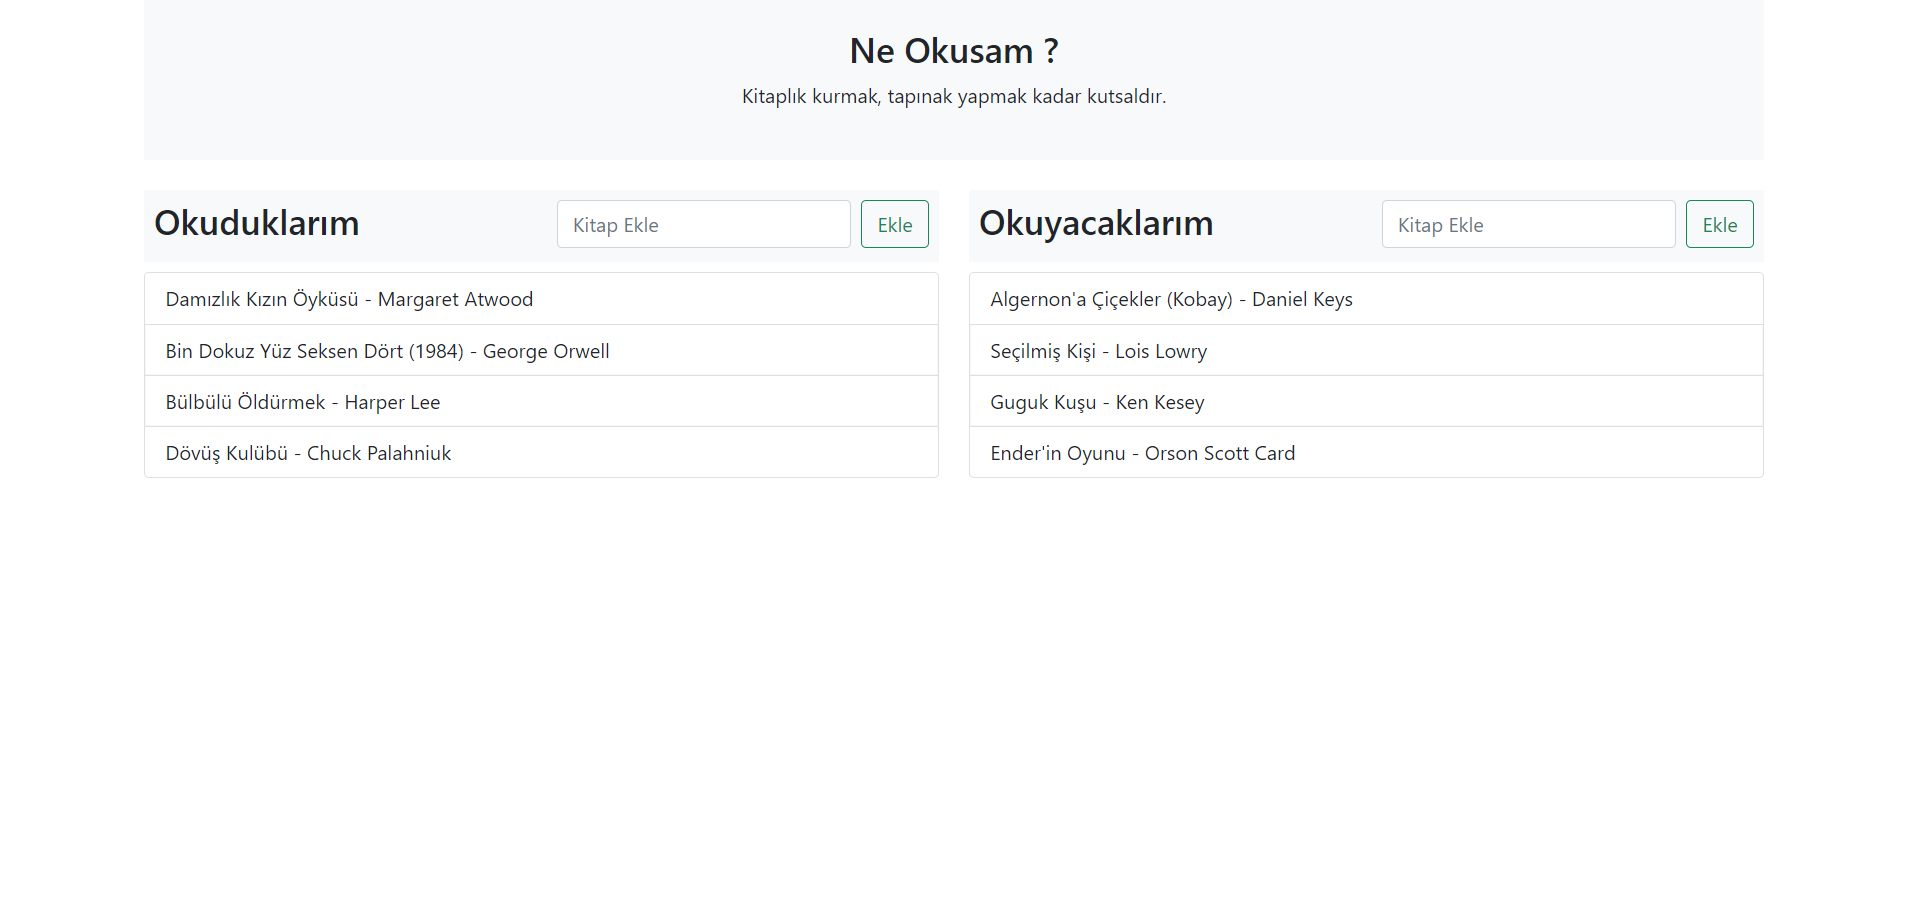
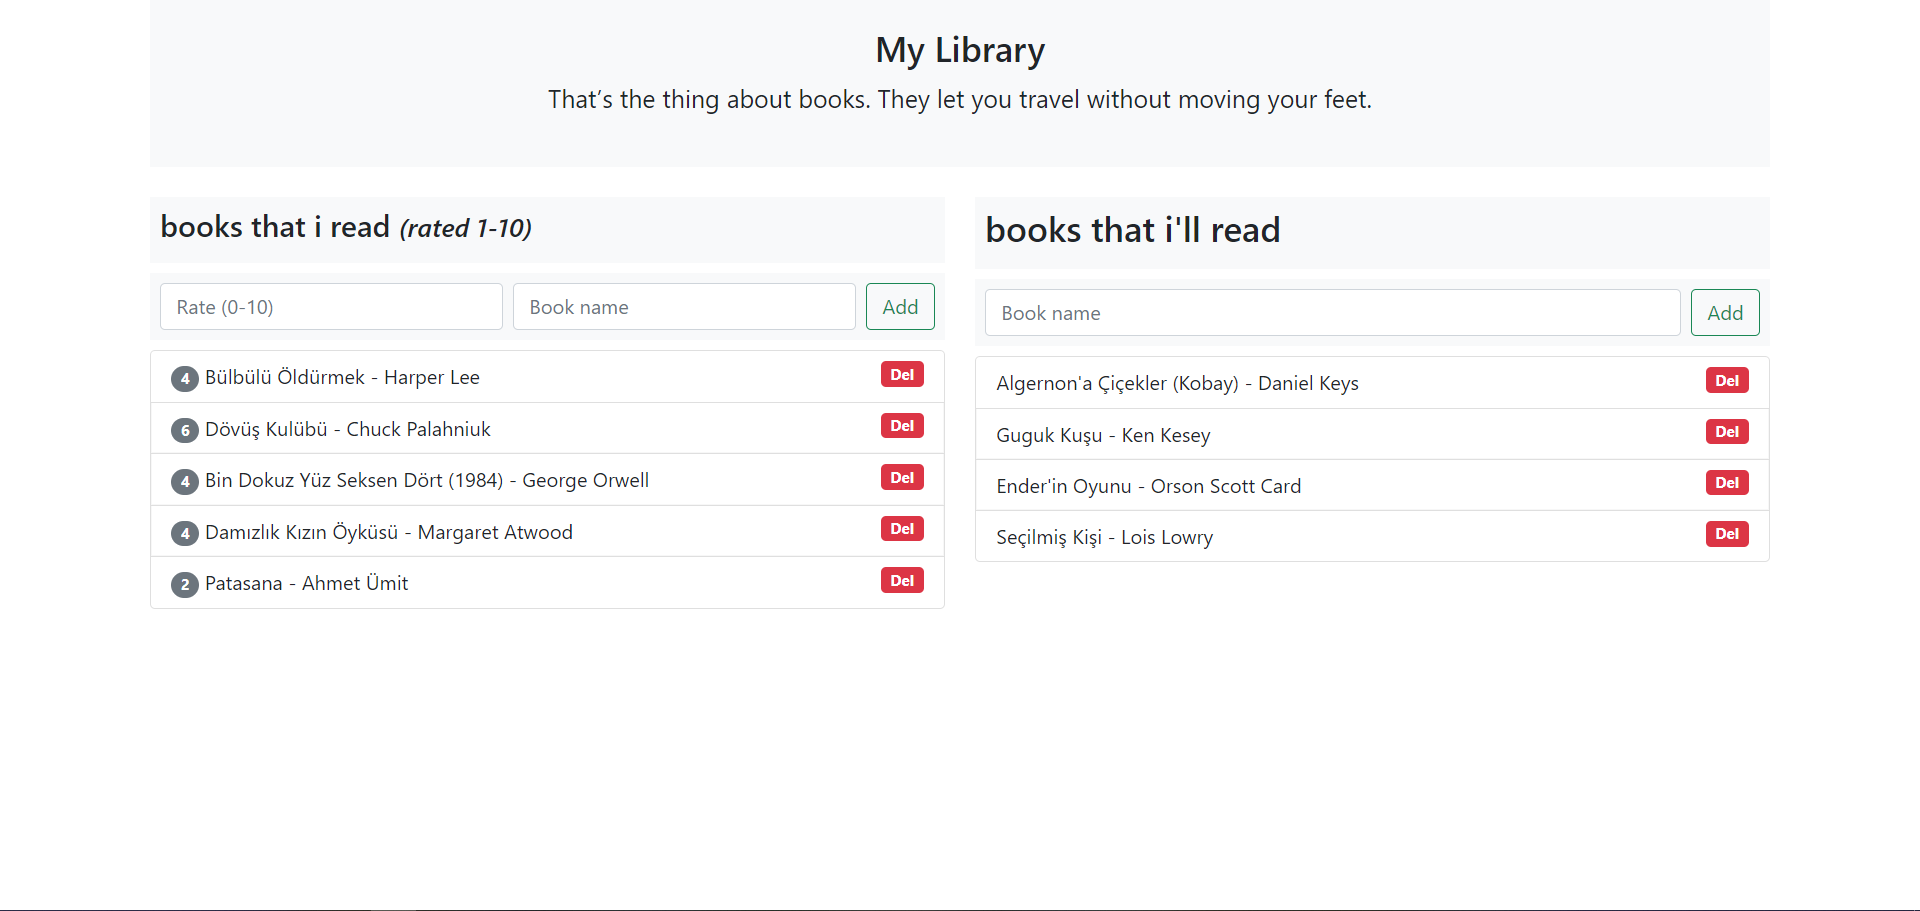
Update files.

diff --git a/app.js b/app.js
@@ -1,49 +1,91 @@
 "use strict"
 
 
+//getting data from localStorage and adding keys to sorted array , with sorted keys array we can have sorted objects
+let unreadKeys = [], readKeys = [];
+let readBooksArray = {}, unReadBooksArray = {};
+for (let i = 0; i < localStorage.length; i++) {
+  let key = localStorage.key(i);
+  if (key.includes('r')) {
+    readKeys.push(key);
+  } else {
+    unreadKeys.push(key);
+  }
+}
+readKeys.sort();
+unreadKeys.sort();
+for (let i = 0; i < readKeys.length; i++) {
+  readBooksArray[readKeys[i]] = localStorage.getItem(readKeys[i]);
+}
+for (let i = 0; i < unreadKeys.length; i++) {
+  unReadBooksArray[unreadKeys[i]] = localStorage.getItem(unreadKeys[i]);
+}
+
+
+//delete function
+function reply_click(clicked_id) {
+  confirm(`Are you sure ?`) ? localStorage.removeItem(clicked_id) : "";
+  document.location.reload();
+}
 
 
 //read books form submit function
-//okunan kitaplar için form submit kontrolü
-const addReadBook = document.querySelector("#addReadBook");
-addReadBook.addEventListener('submit', onSubmit1);
+const readBookForm = document.querySelector("#readBookForm");
+readBookForm.addEventListener('submit', onSubmit1);
 function onSubmit1(e) {
   e.preventDefault();
   const bookName = document.querySelector("#readBookName");
+  const bookRate = document.querySelector("#readBookRate");
   let msg = document.querySelector("#msgReadBook");
-  if (bookName.value === "") {
+  if (bookName.value === "" || bookRate.value === "") {
     msg.classList.add("alert");
     msg.classList.add("alert-danger");
-    msg.textContent = "Lütfen bir kitap ismi giriniz.";
+    msg.textContent = "Please fill the blanks.";
     setTimeout(() => msg.classList.remove("alert"), 3000);
     setTimeout(() => msg.classList.remove("alert-danger"), 3000);
     setTimeout(() => msg.textContent = "", 3000);
   } else {
-    addReadListItem(bookName.value);
+    addReadListItem(bookName.value,bookRate.value);
     bookName.value = '';
   }
 }
 
 //read books local storage add function 
-//okunan kitaplar localstorage eleman ekleme fonksiyonu
-function addReadListItem(bookName) {
-  let counter = 0;
-  for (let i = 0; i < localStorage.length; i++) {
-    if (localStorage.key(i).includes("r")) {
-      counter++;
-    }
+function addReadListItem(bookName,bookRate) {
+  if (readKeys.length === 0) {
+    localStorage.setItem(`r0-${bookRate}`, bookName);
+  } else {
+    let str = readKeys[readKeys.length - 1];
+    let strArray = str.split("-");
+    var matches = strArray[0].match(/(\d+)/);
+    localStorage.setItem(`r${Number(matches[0])+1}-${bookRate}`, bookName);
   }
-  localStorage.setItem(`r${counter}`, bookName);
+
   document.location.reload()
 }
 
+//read books html listing
+for (const key in readBooksArray) {
+  let ul = document.querySelector("#readBookList");
+  let li = document.createElement("li");
+  li.appendChild(document.createTextNode(readBooksArray[key]));
+  li.classList.add("list-group-item");
+  ul.appendChild(li);
+}
 
-
+//adding delete button and book rate to readbooks list html items 
+let lilist = document.getElementById("readBookList").getElementsByTagName("li");
+for (let i = 0; i < readKeys.length; i++) {
+  let litem = lilist[i].innerHTML;
+  let rate = readKeys[i].split("-");
+  lilist[i].innerHTML = `<span class="badge bg-secondary rounded-pill">${rate[1]}</span> ` + litem + `<button id="${readKeys[i]}" onClick="reply_click(this.id)" class="badge float-end bg-danger border-0"> Del </button>`;
+}
 /* -------------------------------------------------------- */
+
+
 //unread books form submit function
-//okunacak kitaplar için form submit kontrolü
-const addUnReadBook = document.querySelector('#addUnReadBook');
-addUnReadBook.addEventListener('submit', onSubmit2);
+const unReadBookForm = document.querySelector('#unReadBookForm');
+unReadBookForm.addEventListener('submit', onSubmit2);
 function onSubmit2(e) {
   e.preventDefault();
   const bookName = document.querySelector("#unReadBookName");
@@ -53,7 +95,7 @@ function onSubmit2(e) {
   if (bookName.value === "") {
     msg.classList.add("alert");
     msg.classList.add("alert-danger");
-    msg.textContent = "Lütfen bir kitap ismi giriniz.";
+    msg.textContent = "Please enter a book name.";
     setTimeout(() => msg.classList.remove("alert"), 3000);
     setTimeout(() => msg.classList.remove("alert-danger"), 3000);
     setTimeout(() => msg.textContent = "", 3000);
@@ -64,38 +106,44 @@ function onSubmit2(e) {
 }
 
 //unread books localStorage add function
-//okunacak kitaplar localStorage eleman ekleme fonksiyonu
+
 function addUnReadListItem(bookName) {
-  let counter = 0;
-  for (let i = 0; i < localStorage.length; i++) {
-    if (localStorage.key(i).includes("u")) {
-      counter++;
-    }
+  if (unreadKeys.length === 0) {
+    localStorage.setItem(`u0`, bookName);
+  } else {
+    let str = unreadKeys[unreadKeys.length - 1];
+    var matches = str.match(/(\d+)/);
+    localStorage.setItem(`u${Number(matches[0])+1}`, bookName);
   }
-  localStorage.setItem(`u${counter}`, bookName);
+
   document.location.reload()
 }
 
 
-//read and unread books html listing
-//okunacak kitaplar html listelemesi
-for (let i = 0; i < localStorage.length; i++) {
-  for(let j = 0 ; j<localStorage.length; j++){ 
-    if (localStorage.key(j)==`r${i}`) {
-      let bookName = localStorage.getItem(`r${i}`);
-      let ul = document.querySelector("#readBookList");
-      let li = document.createElement("li");
-      li.appendChild(document.createTextNode(bookName));
-      li.classList.add("list-group-item");
-      ul.appendChild(li);
-    } else if (localStorage.key(j)==`u${i}`) {
-      let bookName = localStorage.getItem(`u${i}`);
-      let ul = document.querySelector("#unReadBookList");
-      let li = document.createElement("li");
-      li.appendChild(document.createTextNode(bookName));
-      li.classList.add("list-group-item");
-      ul.appendChild(li);
-    }
-  }
-  
+
+//unread books html listing
+for (const key in unReadBooksArray) {
+  let ul = document.querySelector("#unReadBookList");
+  let li = document.createElement("li");
+  li.appendChild(document.createTextNode(unReadBooksArray[key]));
+  li.classList.add("list-group-item");
+  ul.appendChild(li);
 }
+
+
+
+
+//adding delete button to unreadbooks list items 
+let lilist2 = document.getElementById("unReadBookList").getElementsByTagName("li");
+for (let i = 0; i < unreadKeys.length; i++) {
+  let litem = lilist2[i].innerHTML;
+  lilist2[i].innerHTML = litem + `<button id="${unreadKeys[i]}" onClick="reply_click(this.id)" class="badge float-end bg-danger border-0"> Del </button>`;
+}
+
+
+
+
+
+
+
+

diff --git a/index.html b/index.html
@@ -5,9 +5,10 @@
   <meta charset="UTF-8">
   <meta http-equiv="X-UA-Compatible" content="IE=edge">
   <meta name="viewport" content="width=device-width, initial-scale=1.0">
-  <title>Ne Okusam ?</title>
+  <title>My Library</title>
   <link href="https://cdn.jsdelivr.net/npm/bootstrap@5.1.3/dist/css/bootstrap.min.css" rel="stylesheet"
     integrity="sha384-1BmE4kWBq78iYhFldvKuhfTAU6auU8tT94WrHftjDbrCEXSU1oBoqyl2QvZ6jIW3" crossorigin="anonymous">
+
 </head>
 
 <body>
@@ -15,67 +16,63 @@
 
   <div class="container text-center">
     <div class="bg-light p-4">
-      <h3>Ne Okusam ?</h3>
-      <p class="text-normal">Kitaplık kurmak, tapınak yapmak kadar kutsaldır.</p>
+      <h3>My Library</h3>
+      <blockquote class="blockquote">
+        <p class="mb">That’s the thing about books. They let you travel without moving your feet.</p>
+      </blockquote>
     </div>
   </div>
 
   <div class="container mt-4">
     <div class="row">
 
-      <!--okunan kitaplar bölümü-->
+      <!--books that i read section-->
       <div class="col">
 
-        <!--okunan kitaplar başlık-->
+        <!--title-->
         <div class="bg-light p-2 mb-2 ">
-          <div class="row">
-            <div class="col">
-              <h3>Okuduklarım</h3>
-            </div>
-            <div class="col">
-              <form class="d-flex" id="addReadBook">
-                <input class="form-control me-2" type="text" placeholder="Kitap Ekle" id="readBookName">
-                <button class="btn btn-outline-success" type="submit">Ekle</button>
-              </form>
-            </div>
-          </div>
+          <h4>books that i read <small><i>(rated 1-10)</i></small></h4>
+        </div>
+        <div class="bg-light p-2 mb-2 ">
+          <form class="d-flex" id="readBookForm">
+            <input class="form-control me-2" type="text" placeholder="Rate (0-10)" id="readBookRate">
+            <input class="form-control me-2" type="text" placeholder="Book name" id="readBookName">
+            <button class="btn btn-outline-success" type="submit">Add</button>
+          </form>
         </div>
 
-        <!--okunan kitaplar için durum mesajı-->
+
+        <!--read book error message-->
         <div id="msgReadBook" role="alert">
         </div>
 
-        <!--okunan kitaplar listesi-->
+        <!--read book list-->
         <ul class="list-group" id="readBookList">
         </ul>
 
       </div>
 
-      <!--okunacak kitaplar bölümü-->
+      <!--books that i'll read -->
       <div class="col">
 
-        <!--okunacak kitaplar başlık-->
-        <div class="bg-light p-2 mb-2">
-          <div class="row">
-            <div class="col">
-              <h3>Okuyacaklarım</h3>
-            </div>
-            <div class="col">
-              <form class="d-flex" id="addUnReadBook">
-                <input class="form-control me-2" type="text" placeholder="Kitap Ekle" id="unReadBookName">
-                <button class="btn btn-outline-success" type="submit">Ekle</button>
-              </form>
-            </div>
-          </div>
+        <!--title-->
+        <div class="bg-light p-2 mb-2 ">
+          <h3>books that i'll read</h3>
+        </div>
+        <div class="bg-light p-2 mb-2 ">
+          <form class="d-flex" id="unReadBookForm">
+            <input class="form-control me-2" type="text" placeholder="Book name" id="unReadBookName">
+            <button class="btn btn-outline-success" type="submit">Add</button>
+          </form>
         </div>
 
-        <!--okunacak kitaplar için durum mesajı-->
+        <!--unread book error message-->
         <div id="msgUnReadBook" role="alert">
         </div>
 
-        <!--okunacak kitaplar listesi-->
+        <!--unread book list-->
         <ul class="list-group" id="unReadBookList">
-          
+
         </ul>
 
       </div>
